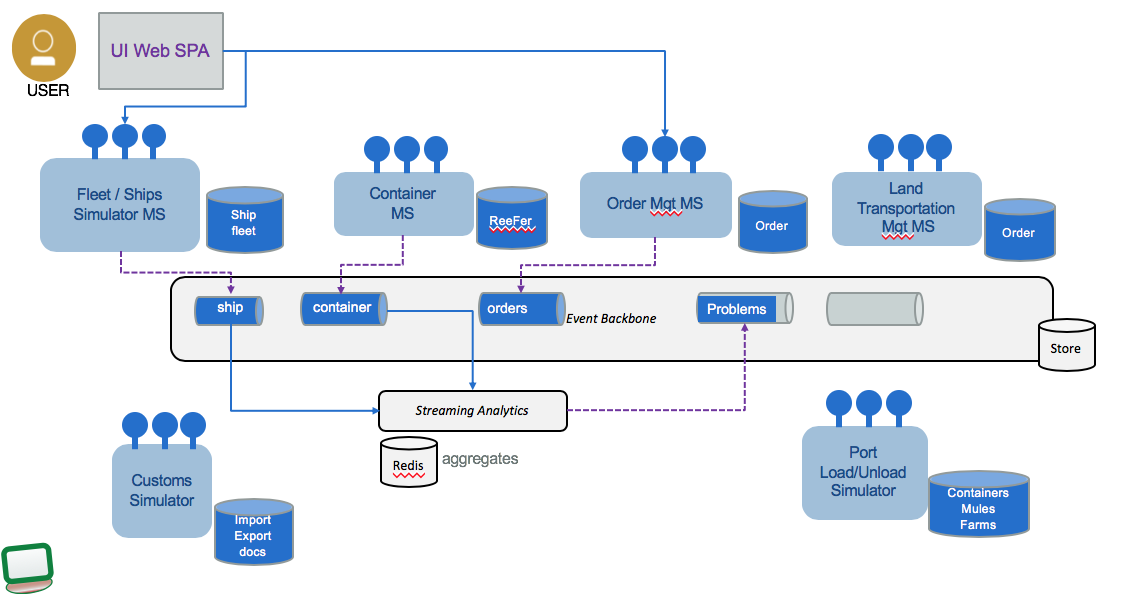
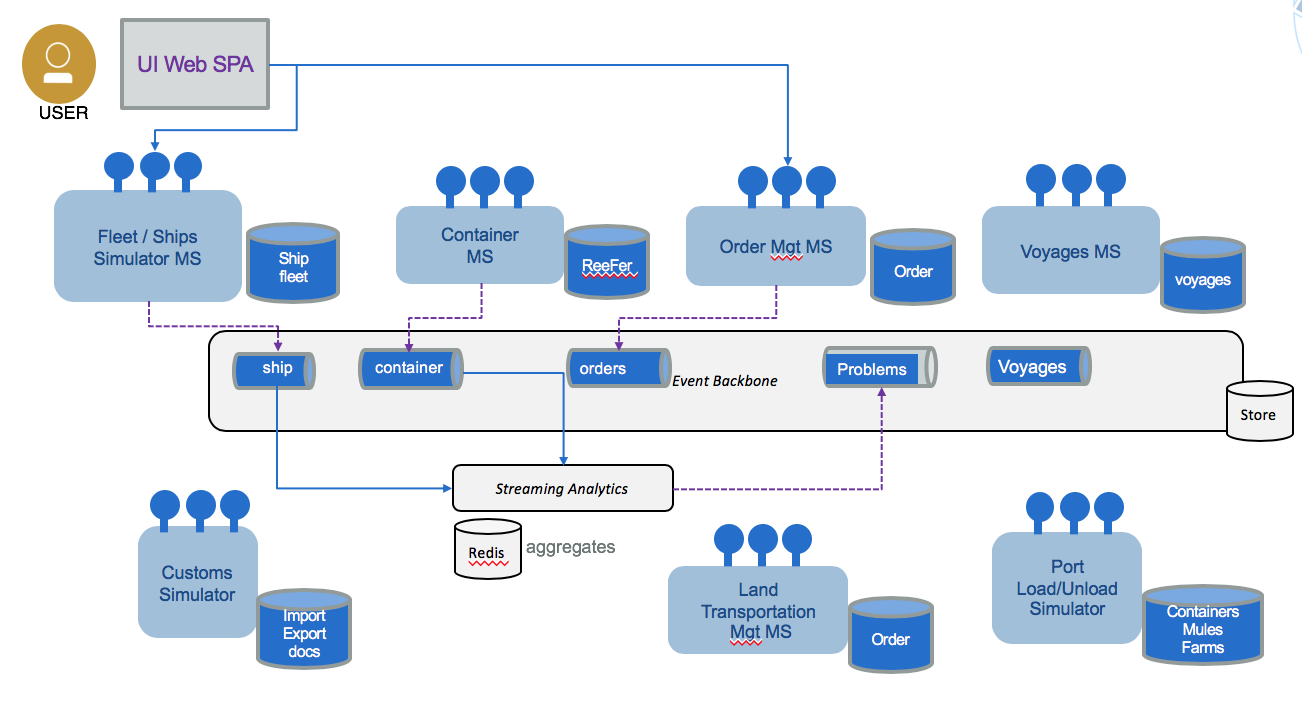
Change and add HL diagrams

Changed region(s): [[0.0, 0.0, 0.9947, 0.9536], [0.0, 0.894, 0.0622, 0.9834], [0.9947, 0.0, 1.0, 0.0894]]

diff --git a/README.md b/README.md
@@ -1,8 +1,8 @@
 # K Container Shipment EDA reference implementation
 
-This solution implementation illustrates the deployment of real time analytics on event streams in the context of container shipment in an event driven architecture with event backbone, functions as service and microservices. 
+This solution implementation illustrates the deployment of real time analytics on event streams in the context of container shipment in an [event driven architecture](https://github.com/ibm-cloud-architecture/refarch-eda) with event backbone, functions as service and microservices. 
 
-As part of producing the IBM event driven point of view and reference architecture, we wanted to bring together a complete scenario which would cover all aspects of developing an event driven solutions including extended connections to devices/IOT  and blockchain for trusted business trading networks. We felt that the shipping business could provide a good foundation for this and would enable us to show how to develop event driven solutions following the architecture patterns.
+As part of producing the IBM event driven point of view and reference architecture, we wanted to bring together a complete scenario which would cover all aspects of developing an event driven solutions including extended connections to devices/IOT and blockchain for trusted business trading networks. We felt that the shipping business could provide a good foundation for this and would enable us to show how to develop event driven solutions following the architecture patterns.
 
 The high level process can be represented in the following diagram, and is described in detailed in [this section](analysis/readme.md#high-level-view-of-the-shipment-process-flow):
 
@@ -38,14 +38,14 @@ You will be greatly interested by the subjects addressed in this solution if you
 
 ## Define microservice scopes
 
-As presented in [in the note about event driven microservice patterns](https://github.com/ibm-cloud-architecture/refarch-eda/blob/master/docs/evt-microservices/README.md#understanding-event-driven-microservice-patterns), we are using a set of microservice design patterns to develop this solution. One of them is the sub domain decomposition. From the analysis output we have the aggregates, actors and data that are helping us to extract a set of subdomains. The figure below summarizes those aggregaees:
+As presented in [in the note about event driven microservice patterns](https://github.com/ibm-cloud-architecture/refarch-eda/blob/master/docs/evt-microservices/README.md#understanding-event-driven-microservice-patterns), we are using a set of event-drivent design patterns to develop this solution. One of them is the sub domain decomposition. From the analysis output we have the aggregates, actors and data that are helping us to extract a set of subdomains. The figure below summarizes those aggregaees:
 
-### Figure illustrating organization of shipment handling as microservices  
+#### Figure illustrating organization of shipment handling as microservices  
 
 ![](docs/microsvc-hld.png)
 
 #### Summary of microservice scopes for shipment handling:
-* Fleet Service: responsible to group the ship, container carriers, in fleet, per major ocean. 
+* Fleet Service: responsibles to group the ship (container carriers), in fleet, per major ocean. 
     * Information model: 
        * Fleet has multiple ships,
        * Ship has unique identifier (we will use its name), and a container capacity (represented as a matrix to make it simple), current position, status, voyage identifier for the voyage it is doing. 
@@ -53,21 +53,21 @@ As presented in [in the note about event driven microservice patterns](https://g
     * Operations: getFleets, get ships in a fleet, get ship by ID. CRUD Fleet and Ship.
 * Voyages Service: define a set of voyage schedules supported by the shipping company
     * Information model: voyageID, shipID, src_Port, planned_departure_date, dest_port, planned_arrival_dates, free_space_this_leg
-    * Events: add itinerary route
+    * Events: add itinerary route, OrderAssigned
     * Operations: CRUD on itinerary routes, query on capacity availability, assign slot to order, free slot for order.
 * Order Service: manage the shipment order
     * Information model: Booking id , customer, pickup loc, pickup after date, deliver location, expected deliver date, order status, assigned container  
     * Events: order placed, order assigned to voyage( sets VoyageID, ship ID ), container assigned to order ( Sets container ID), Landorder, Transport associated with pickup container, Order status event, Order billing/accounting event
     * Operations: CRUD on order, update order status
-* Container Service:
+* Container Service: (not yet implemented)
     * Information model: Container Id, Container temperature, container position, container condition ( maintenance goods), current associated order
     * Events: 
     * Operations: CRUD on container
-* Customs and Export Service
+* Customs and Export Service (not yet implemented)
     * Information model:
     * Events:
     * Operations: process an order for custom validation
-* Land Transport Service:
+* Land Transport Service: (not yet implemented)
     * Information model: LandTID, pickup place pickup time, drop place. Drop time, provider, price , container id , LT order status
     * Events:
     * Operations:
@@ -85,19 +85,24 @@ Leveraging the Event Driven Architecture high level architecture foundation the 
 * Each service supports the top-level process with context boundary defining the microservice scope.
 * Streamaing analytics is used to process aggregates and analytics on containers and ships movement data coming in real time.
 
+As we develop by iterations the current scope of the MVP is addressing the following components:
+
+![](docs/kc-mvp-components.png)
+
 [Read more on EDA design pattern...](https://github.com/ibm-cloud-architecture/refarch-eda/blob/master/docs/evt-microservices/ED-patterns.md)
 
 ## Deployment
 
-This solution supports a set of related repositories which includes user interface, a set of microservices to implement Event Sourcing, Saga and CQRS patterns, and to implement simulators and analytics content.
-In each repository we are explaining the design and implementation approach, how to build and run.
+This solution supports a set of related repositories which includes user interface, a set of microservices to implement the Event Sourcing and CQRS patterns, and to implement simulators and analytics content.
+In each repository we are explaining the design and implementation approach, how to build and run them:
 
 ### Related repositories
 
 * [User Interface in Angular 7 and Backend For Frontend server used for demonstration purpose](https://github.com/ibm-cloud-architecture/refarch-kc-ui)
-* Most of the simples [supporting microservices and functions](https://github.com/ibm-cloud-architecture/refarch-kc-ms) of this solution are grouped in one repository. We may change that later if we need it.
+* [Ship and fleet microservice](https://github.com/ibm-cloud-architecture/refarch-kc-ms/tree/master/fleet-ms) of this solution are grouped in one repository. We may change that later if we need it.
 * [Real time analytics with IBM Streaming Analytics](https://github.com/ibm-cloud-architecture/refarch-kc-streams)
 * [Order management microservice using CQRS and event sourcing pattern](https://github.com/ibm-cloud-architecture/refarch-kc-order-ms)
+* [Voyage microservice](https://github.com/ibm-cloud-architecture/refarch-kc-ms/tree/master/voyages-ms)
 
 The command `./scripts/clone.sh` clones those dependant repositories. 
 
@@ -105,7 +110,7 @@ The command `./scripts/clone.sh` clones those dependant repositories.
 
 To make the solution running we need to have a set of components installed and ready. We can deploy the components of the solution into three environments:
 
-* **Public cloud (IBM Cloud)**, [see this article](docs/prepare-ibm-cloud.md) for details.
+* **Public cloud (IBM Cloud)**, [see this article](docs/prepare-ibm-cloud.md) for details on how to prepare the needed services.
 * **Private cloud** (we are using IBM Cloud Private) and [see this article](docs/prepare-icp.md) for details.
 * **Local** to your laptop, mostly using docker images and docker compose. See next section for explanations.
 

diff --git a/docs/demo.md b/docs/demo.md
@@ -1,1 +1,8 @@
 # Demo Script 
+
+This demo script is using the localhost deployment with a mapping of the host name kcsolution to localhost defined in the `/etc/hosts` file. For IBM Cloud change the hostname accordingly. 
+
+Here is how to execute the business process step by step:
+
+## Step 1: Manufacturer create an order:
+* Go to the http://kcsolution:3000 URL
